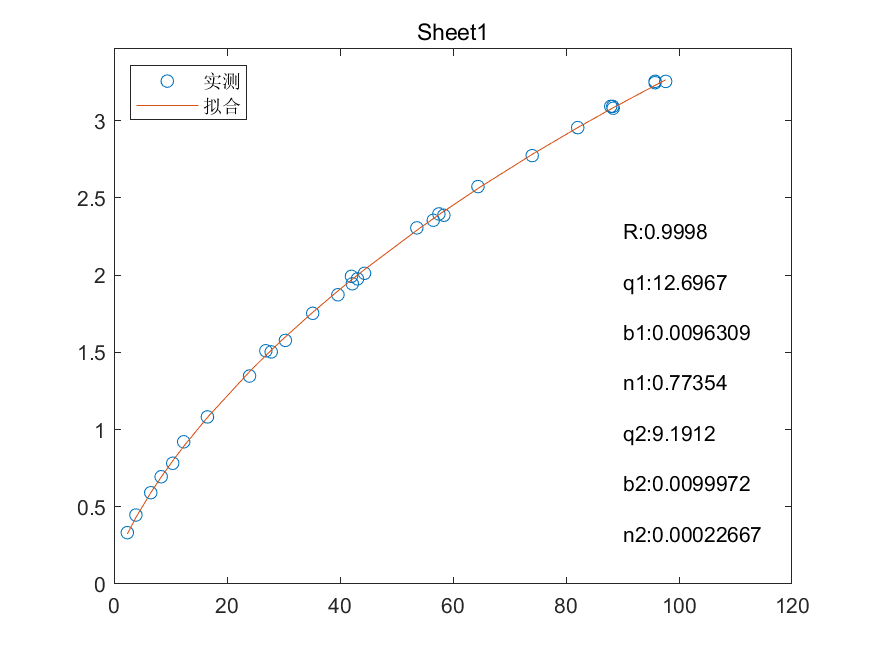
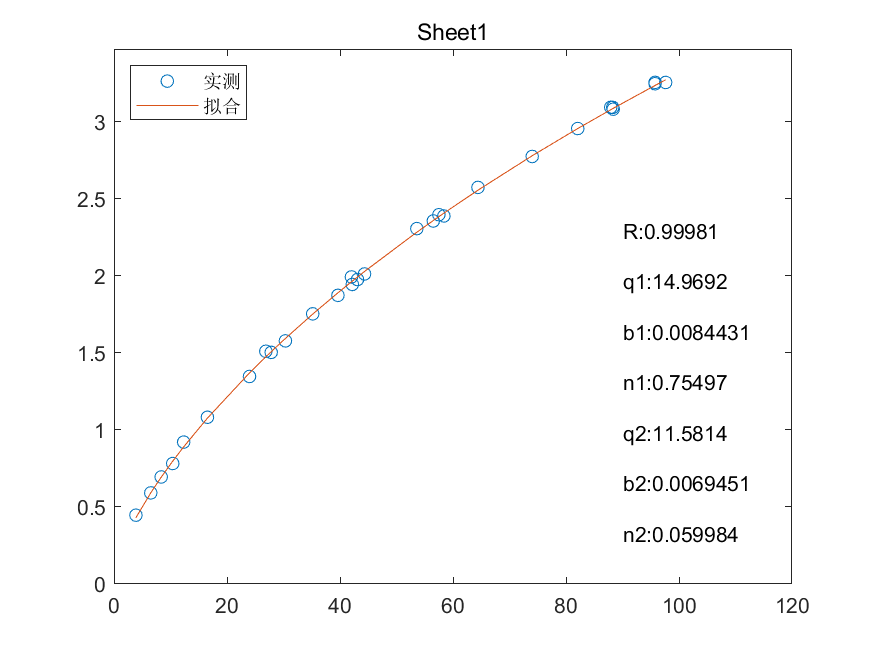
main

diff --git a/Code/fit_GA.m b/Code/fit_GA.m
@@ -3,15 +3,15 @@ clear all;close all;
 % Last updated:20200105
 
 %% import setting
-n=6;        % number of data set
+n=6;                                                  % number of data set
+N=char(64+n);
 opts = spreadsheetImportOptions("NumVariables", n);
-opts.Sheet = "Sheet1";
-opts.DataRange = "A1:F80";
-opts.VariableNames = ["X", "Y", "X1", "Y1", "X2", "Y2"];
-opts.VariableTypes = ["double", "double", "double", "double", "double", "double"];
+opts.Sheet = "Sheet1";                                %sheet name
+opts.DataRange = ['A1:',N,'100'];
+opts.VariableTypes = repmat(["double"],1,n);
 
 %% import data
-datapath=' ';        % add datapath
+datapath='';                                          % datapath
 cd(datapath);
 files=dir('*.XLSX');
 
@@ -30,8 +30,8 @@ files=dir('*.XLSX');
         p=p1(k1);
         q=q1(k2);
         save tempdata.mat p q;     
-        LB=[0 0 0 0 0 0];               % lower boundary 
-        UB=[20 0.01 2 20 0.01 2];       % upper boundary
+        LB=[0 0 0 0 0 0];                               % lower boundary 
+        UB=[20 0.01 2 20 0.01 2];                       % upper boundary
         ObjectiveFunction = @simple_fitness; 
         nvars = 6;                      
         rng default;                    
@@ -70,7 +70,7 @@ files=dir('*.XLSX');
         clear p q fval yf yfit nvars i q1 q2 n1 n2 b1 b2 R r ymax coeff LB UB
         delete tempdata.mat
     end
-clear opts data file_name path datapath ObjectiveFunction n
+clear opts data file_name path datapath ObjectiveFunction n N
 
 %% Objective Function
 function y=simple_fitness(c)
